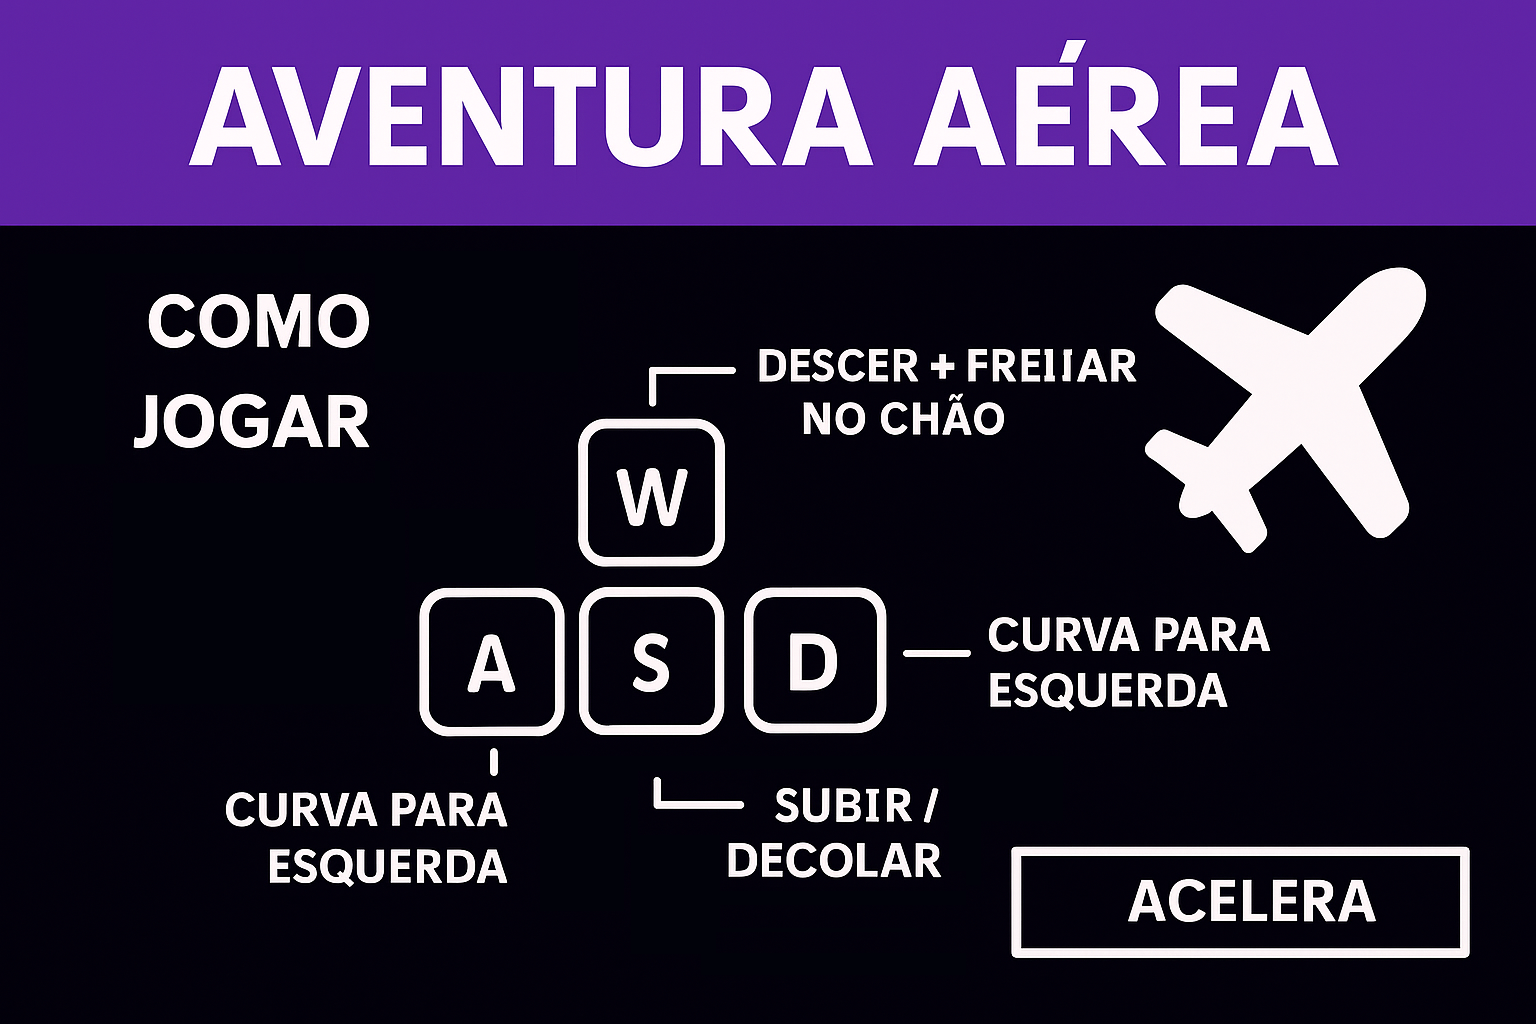
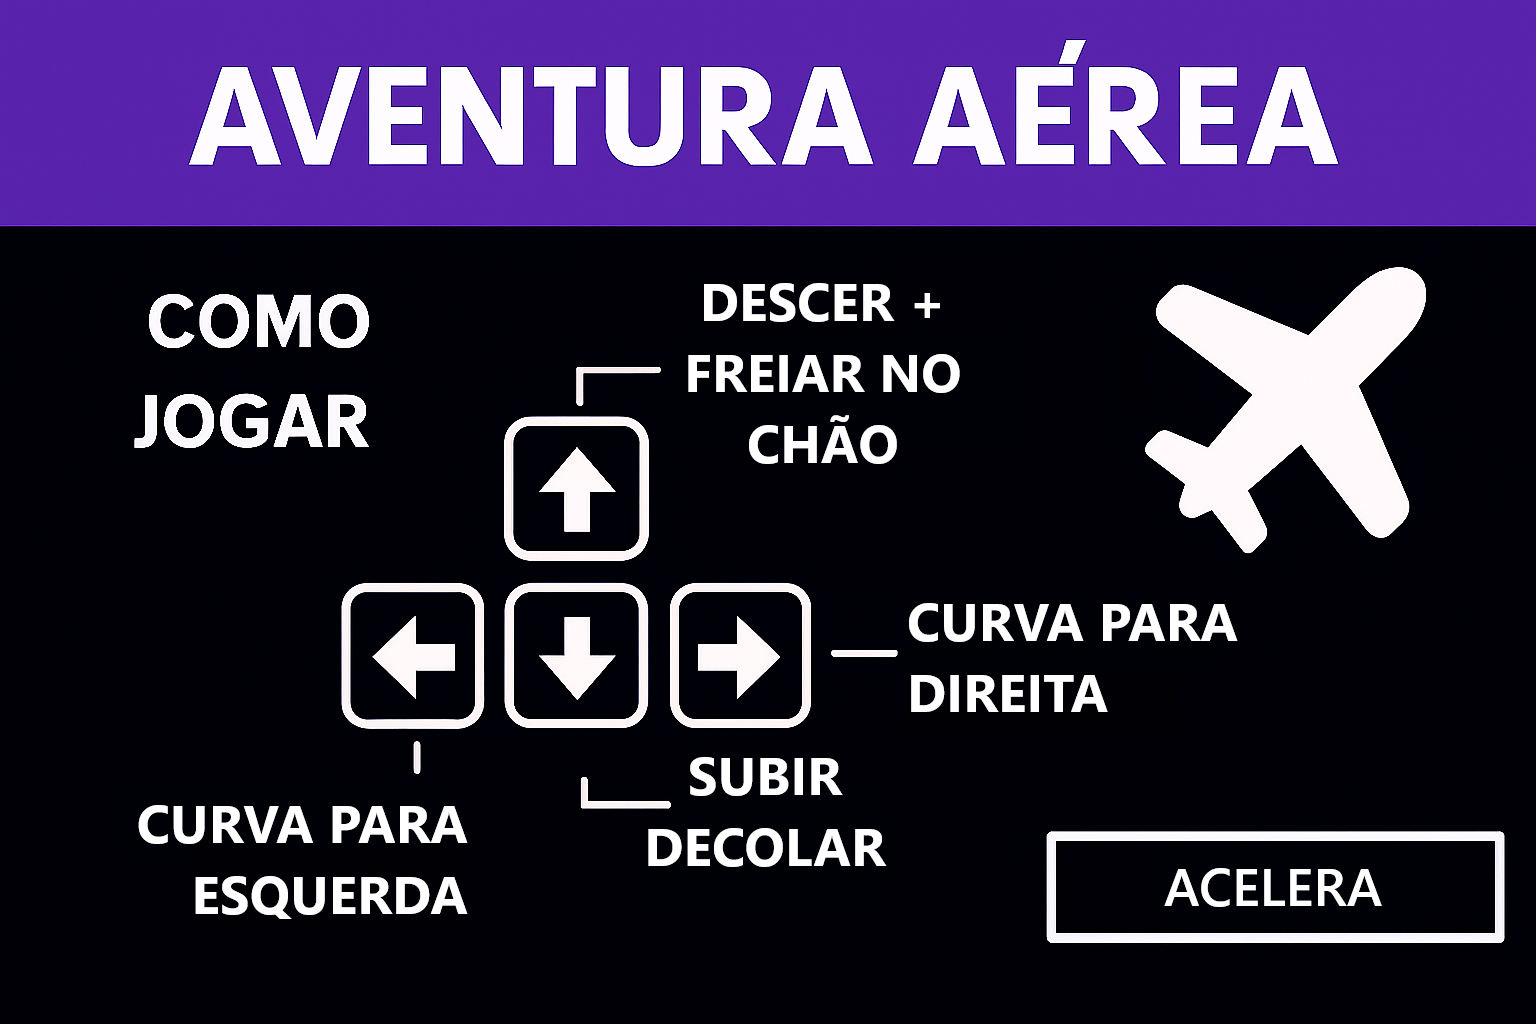
FINALIZAÇÃO

diff --git a/controls.js b/controls.js
@@ -192,6 +192,14 @@ document.addEventListener('keydown', (event) => {
         case 'd': keys.d = true; break;
         case ' ': currentPlaneModule.setIsAccelerating(true); break;
     }
+
+    // Adicionar suporte para setas (sem alterar o existente)
+    switch (event.key) {
+        case 'ArrowUp': keys.w = true; break;
+        case 'ArrowDown': keys.s = true; break;
+        case 'ArrowLeft': keys.a = true; break;
+        case 'ArrowRight': keys.d = true; break;
+    }
 });
 
 document.addEventListener('keyup', (event) => {
@@ -207,18 +215,16 @@ document.addEventListener('keyup', (event) => {
         case 'd': keys.d = false; break;
         case ' ': currentPlaneModule.setIsAccelerating(false); break;
     }
-});
 
-document.addEventListener('keyup', (event) => {
-    if (!currentPlaneModule) return;
+    // Adicionar suporte para setas (sem alterar o existente)
     switch (event.key) {
-        case 'w': keys.w = false; break;
-        case 's': keys.s = false; break;
-        case 'a': keys.a = false; break;
-        case 'd': keys.d = false; break;
-        case ' ': currentPlaneModule.setIsAccelerating(false); break;
+        case 'ArrowUp': keys.w = false; break;
+        case 'ArrowDown': keys.s = false; break;
+        case 'ArrowLeft': keys.a = false; break;
+        case 'ArrowRight': keys.d = false; break;
     }
 });
+
 
 // --- FUNÇÃO DE COLISÃO ---
 function checkCollision(box1, box2) {

diff --git a/buildings.js b/buildings.js
@@ -362,7 +362,6 @@ const buildings = [
     building39, building40, building41, building44, building45, building46, building47,
     building55, building56, building57, building58, building59, building60, building61, building62, building63,
     building64, building65, building66, building67, building68,
-    cylinder1, cylinder2, cube1,
     ...trees // Adiciona todas as árvores ao sistema de colisão
 ];
 // =================================================================

diff --git a/script.js b/script.js
@@ -185,6 +185,7 @@ document.addEventListener('keyup', (event) => {
     }
 });
 
+
 // --- FUNÇÃO DE COLISÃO ---
 function checkCollision(box1, box2) {
     return box1.intersectsBox(box2);
